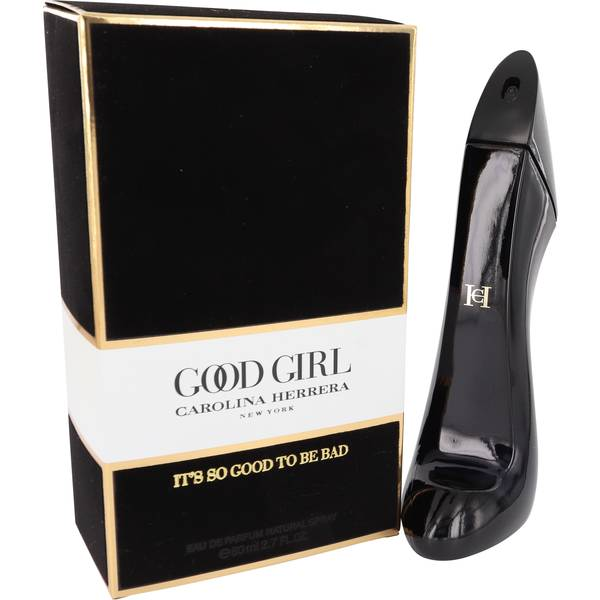
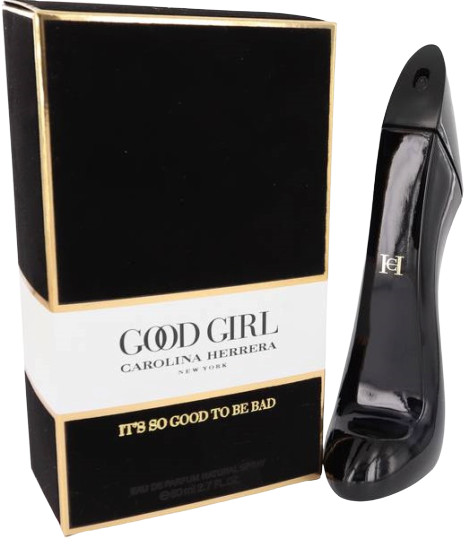
fix slider image

diff --git a/UI_Ferfume/resource/css/style.css b/UI_Ferfume/resource/css/style.css
@@ -122,8 +122,18 @@ input[type=text]::placeholder {
 
 /* ------------------------------------------ */
 /* ---------------------SLIDER--------------- */
-.slider-img {
-    display: inline-block;
+.slider {
+    background-image:  url('/UI_Ferfume/resource/img/background-slider.jpg');
+    width: 100%;
+    background-attachment: fixed;
+    background-size: cover;
+    background-position: center;
+    height: 602px;
+}
+.slider-img img{
+    height: 600px;
+    display: block;
+    box-shadow: 0px 5px 15px 0px #19213A;
 }
 .slider-content{
     position: absolute;
@@ -175,6 +185,7 @@ input[type=text]::placeholder {
     position: absolute;
     opacity: 1;
     color: rgb(90, 86, 86);
+    font-weight: 500;
     margin-top: 32%;
 }
 

diff --git a/UI_Ferfume/index.html b/UI_Ferfume/index.html
@@ -1,3 +1,4 @@
+<!-- https://www.remove.bg/upload -->
 <!DOCTYPE html>
 <html>
     <head>
@@ -53,7 +54,6 @@
                             </div>
                         </div>
                     </div>
-                    
                 </div>
             </div>
         </main>
